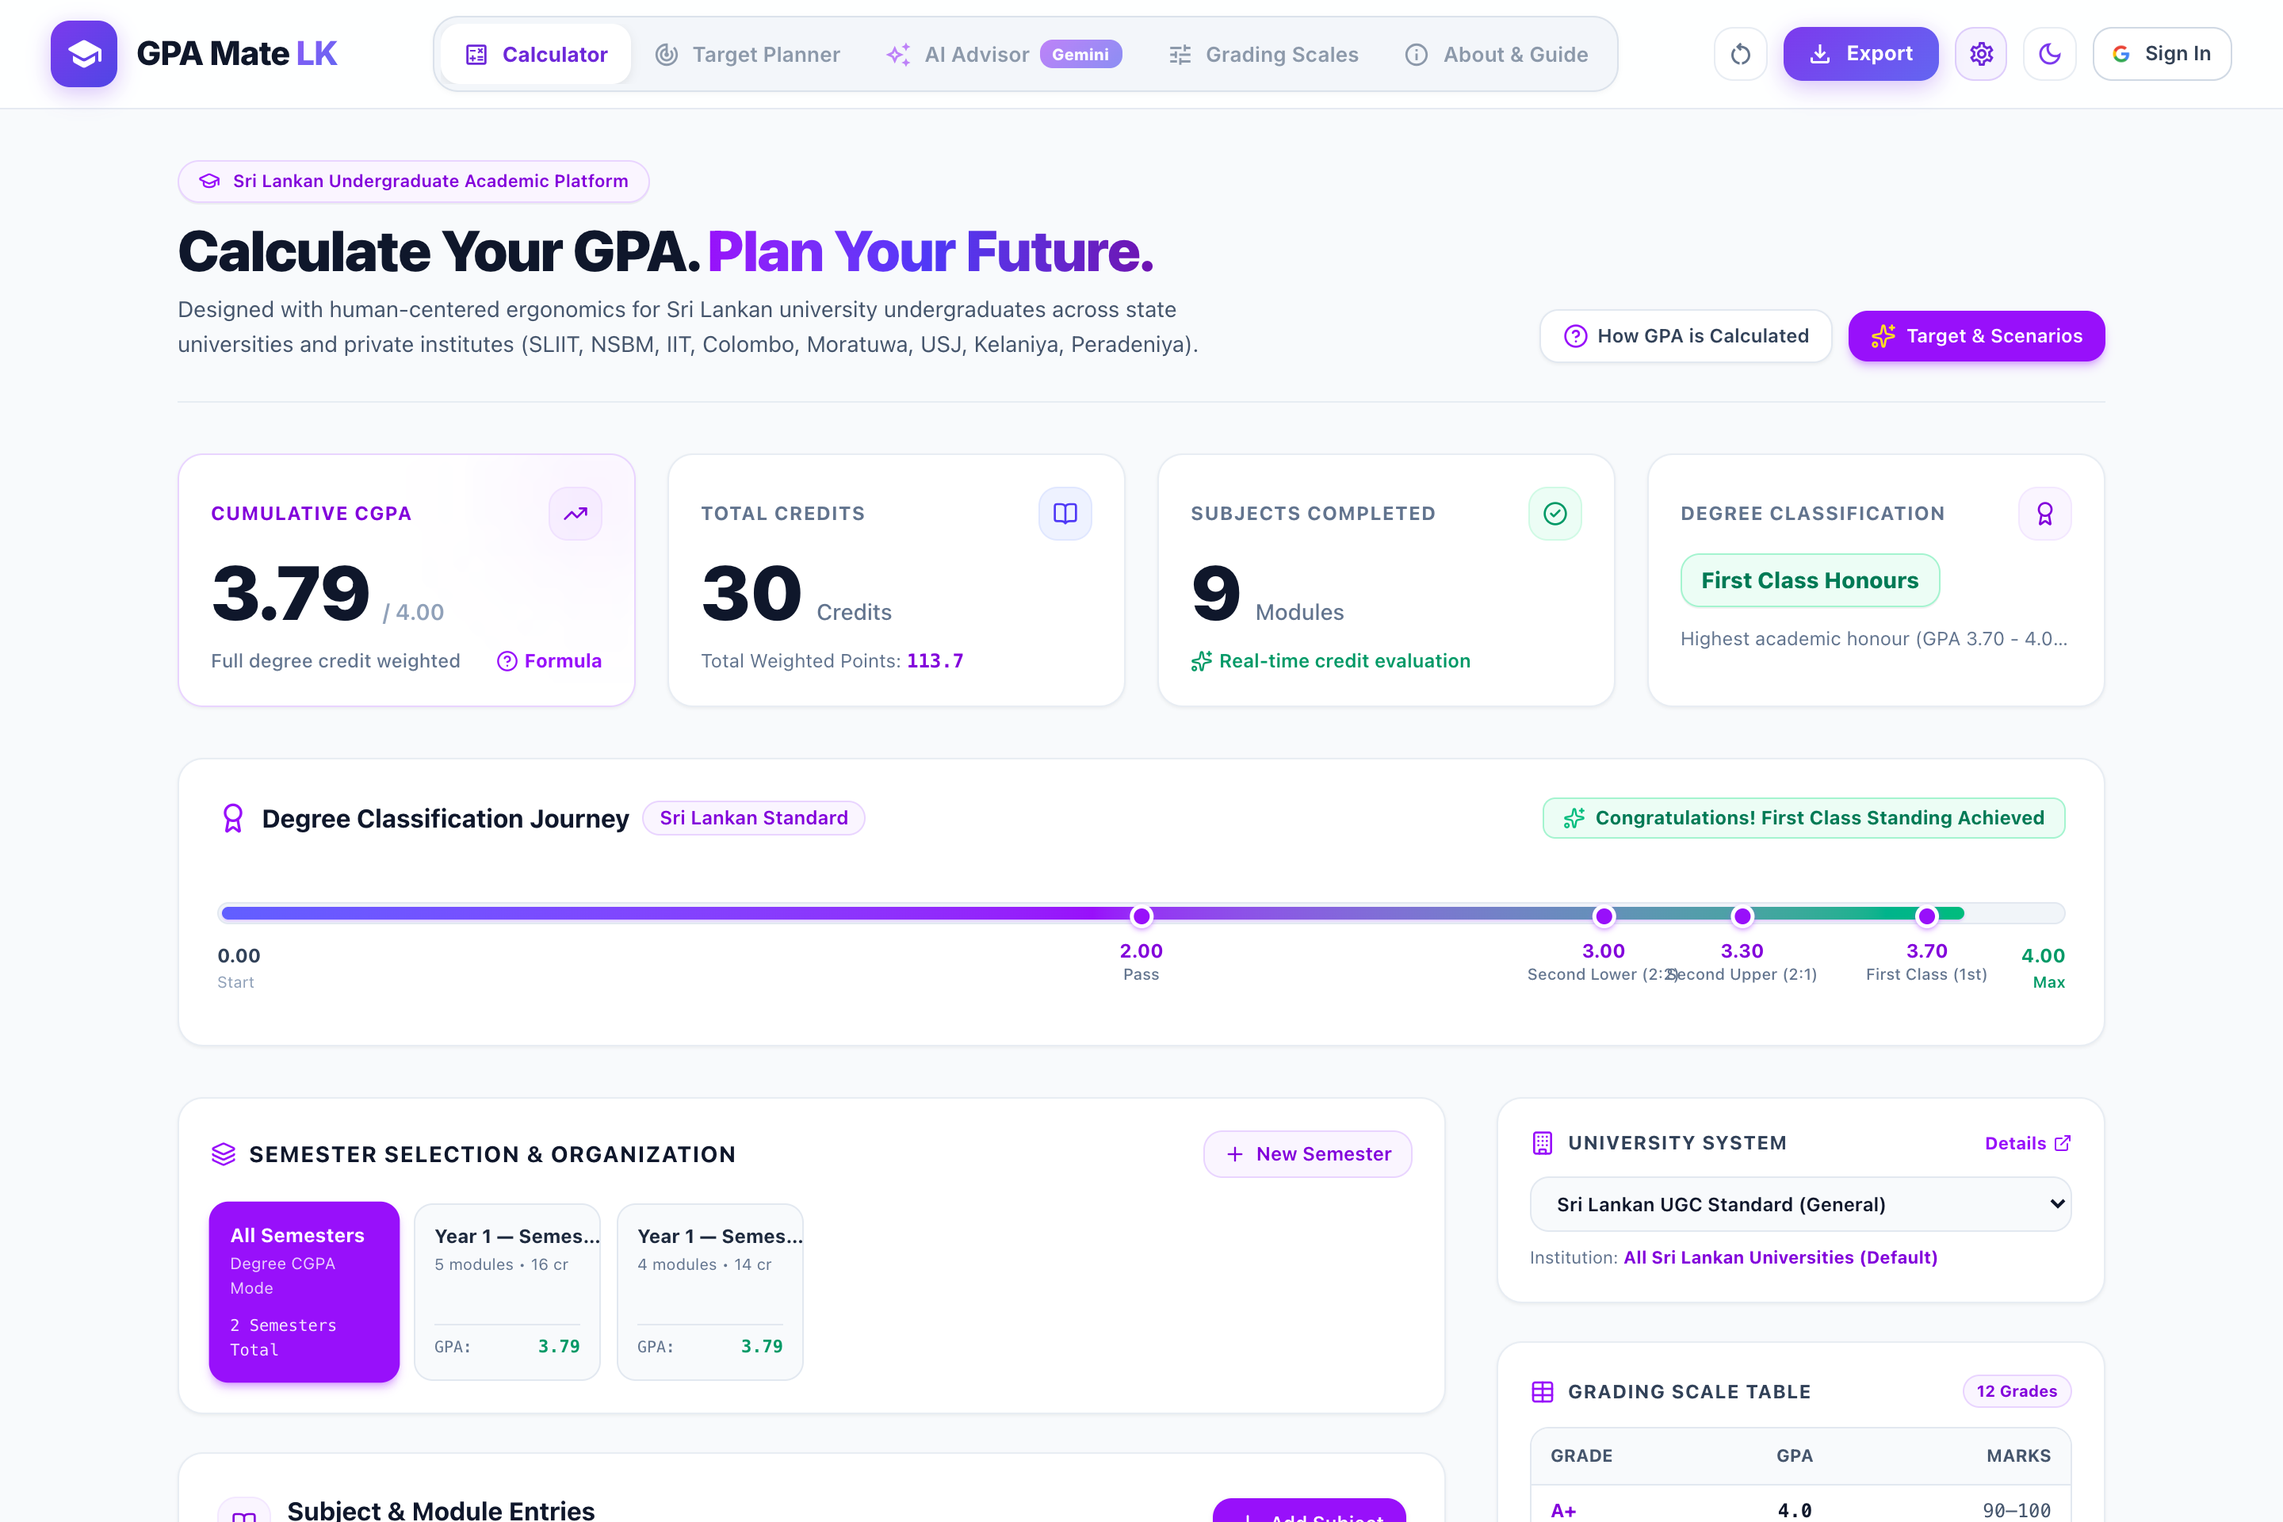
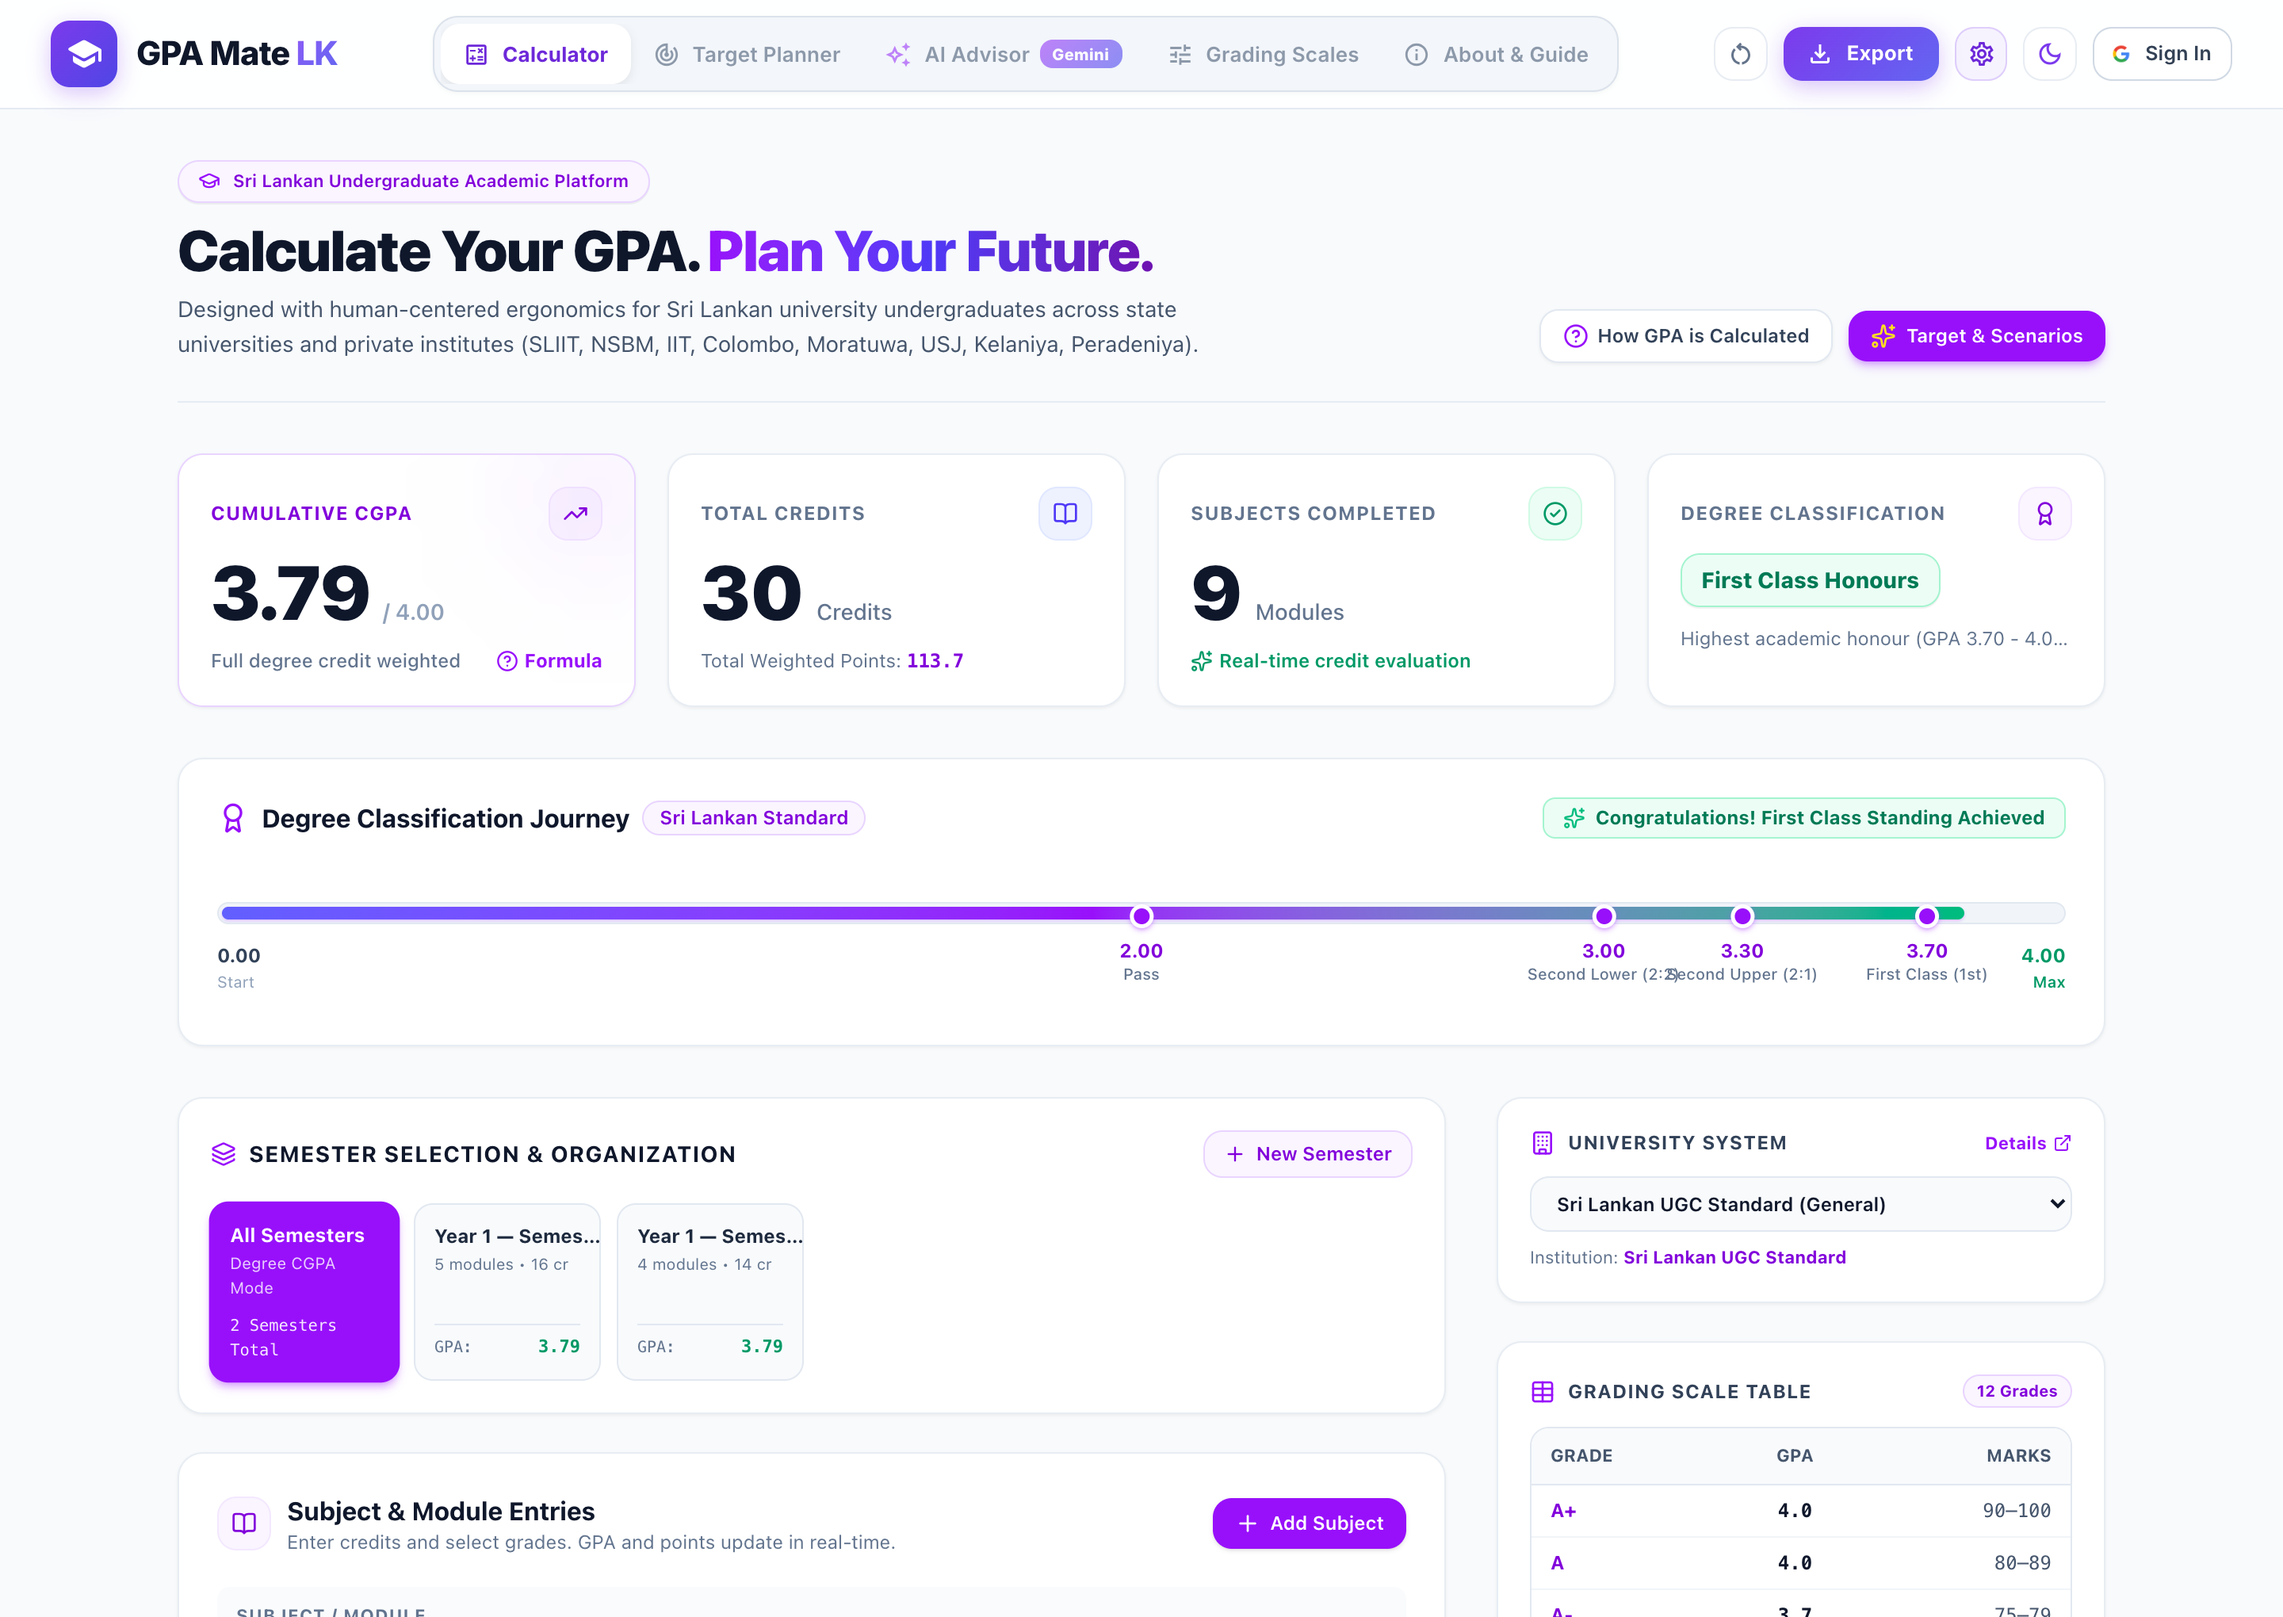
docs: update screenshots with cache-busting URLs, updated layout framing, and improved contrast

diff --git a/scripts/captureScreenshots.js b/scripts/captureScreenshots.js
@@ -14,7 +14,7 @@ async function capture() {
   });
 
   const page = await browser.newPage();
-  await page.setViewport({ width: 1440, height: 960, deviceScaleFactor: 2 });
+  await page.setViewport({ width: 1440, height: 1020, deviceScaleFactor: 2 });
 
   console.log('Navigating to http://localhost:5173...');
   await page.goto('http://localhost:5173', { waitUntil: 'networkidle2' });
@@ -55,6 +55,7 @@ async function capture() {
   // Reload with sample data in light mode
   await page.reload({ waitUntil: 'networkidle2' });
   await new Promise((r) => setTimeout(r, 1200));
+  await page.evaluate(() => window.scrollTo(0, 0));
 
   // 1. Dashboard Light Mode
   console.log('Capturing dashboard-light.png...');
@@ -66,6 +67,7 @@ async function capture() {
     const tabs = Array.from(document.querySelectorAll('button[role="tab"]'));
     const plannerTab = tabs.find((t) => t.textContent && (t.textContent.includes('Planner') || t.getAttribute('value') === 'planner'));
     if (plannerTab) plannerTab.click();
+    window.scrollTo(0, 0);
   });
   await new Promise((r) => setTimeout(r, 1000));
   await page.screenshot({ path: path.join(outDir, 'planner.png'), fullPage: false });
@@ -76,6 +78,7 @@ async function capture() {
     const tabs = Array.from(document.querySelectorAll('button[role="tab"]'));
     const aiTab = tabs.find((t) => t.textContent && (t.textContent.includes('Advisor') || t.getAttribute('value') === 'ai'));
     if (aiTab) aiTab.click();
+    window.scrollTo(0, 0);
   });
   await new Promise((r) => setTimeout(r, 1000));
   await page.screenshot({ path: path.join(outDir, 'ai-advisor.png'), fullPage: false });
@@ -86,6 +89,7 @@ async function capture() {
     const tabs = Array.from(document.querySelectorAll('button[role="tab"]'));
     const gradingTab = tabs.find((t) => t.textContent && (t.textContent.includes('Grading') || t.getAttribute('value') === 'grading'));
     if (gradingTab) gradingTab.click();
+    window.scrollTo(0, 0);
   });
   await new Promise((r) => setTimeout(r, 1000));
   await page.screenshot({ path: path.join(outDir, 'grading-scales.png'), fullPage: false });
@@ -107,7 +111,10 @@ async function capture() {
     const allButtons = Array.from(document.querySelectorAll('button'));
     const themeBtn = allButtons.find((b) => b.getAttribute('title')?.includes('Mode') || b.querySelector('svg[data-testid*="Mode"]'));
     if (themeBtn) themeBtn.click();
+    window.scrollTo(0, 0);
   });
+  await new Promise((r) => setTimeout(r, 1000));
+  await page.screenshot({ path: path.join(outDir, 'dashboard-dark.png'), fullPage: false });
   await new Promise((r) => setTimeout(r, 1000));
   await page.screenshot({ path: path.join(outDir, 'dashboard-dark.png'), fullPage: false });
 

diff --git a/src/App.tsx b/src/App.tsx
@@ -485,10 +485,10 @@ export const App: React.FC = () => {
             <div className="max-w-4xl mx-auto space-y-6 animate-fadeIn">
               <div className="flex items-center justify-between">
                 <div>
-                  <h2 className="text-xl font-bold text-white light:text-slate-900">
+                  <h2 className="text-xl font-bold text-slate-900 dark:text-white">
                     Sri Lankan University Grading Scales & Classification Presets
                   </h2>
-                  <p className="text-xs text-purple-300/80 light:text-slate-600">
+                  <p className="text-xs text-slate-600 dark:text-purple-300/80">
                     Switch universities or customize honour thresholds
                   </p>
                 </div>

diff --git a/src/lib/defaultConfig.ts b/src/lib/defaultConfig.ts
@@ -19,7 +19,7 @@ export const AVAILABLE_GRADING_SCALES: GradingScale[] = [
   {
     id: 'ugc-standard',
     name: 'Sri Lankan UGC Standard (General)',
-    university: 'All Sri Lankan Universities (Default)',
+    university: 'Sri Lankan UGC Standard',
     isDefault: true,
     grades: DEFAULT_UGC_GRADES,
   },

diff --git a/src/contexts/AuthContext.tsx b/src/contexts/AuthContext.tsx
@@ -22,8 +22,8 @@ interface AuthContextType {
 const AuthContext = createContext<AuthContextType>({
   currentUser: null,
   loading: false,
-  loginWithGoogle: async () => {},
-  logout: async () => {},
+  loginWithGoogle: async () => { },
+  logout: async () => { },
   isConfigured: false,
 });
 

diff --git a/README.md b/README.md
@@ -21,27 +21,27 @@ A modern, production-grade **GPA + CGPA + Degree Class Prediction + Academic Pla
 ### 1. Dashboard & Cumulative GPA Calculator (Clean Light Mode)
 *Ergonomic, distraction-free interface featuring a Material UI v6 App Bar, real-time degree classification progress bar, credit summary metrics, multi-semester management, and live credit-weighted grade-point calculations.*
 
-![GPA Mate LK Dashboard Light Mode](docs/screenshots/dashboard-light.png)
+![GPA Mate LK Dashboard Light Mode](docs/screenshots/dashboard-light.png?raw=true&v=2)
 
 ### 2. Academic Target & "What-If" Scenario Sandbox
 *Determine the exact required future GPA to reach target degree classes (First Class, 2:1, 2:2) alongside interactive future module simulations with customizable credit weighting.*
 
-![Target and Scenario Planner](docs/screenshots/planner.png)
+![Target and Scenario Planner](docs/screenshots/planner.png?raw=true&v=2)
 
 ### 3. Google Gemini AI Academic Advisor (Grounded with Ground Truth)
 *Intelligent conversational assistant powered by Google Gemini, personally greeting students by their Google account profile, automatically calculating remaining credit feasibility, and enforcing zero mathematical hallucinations.*
 
-![Google Gemini AI Academic Advisor](docs/screenshots/ai-advisor.png)
+![Google Gemini AI Academic Advisor](docs/screenshots/ai-advisor.png?raw=true&v=2)
 
 ### 4. University Grading Scale Presets & Custom Classification Cutoffs
 *Pre-configured grading systems for Sri Lankan UGC standard and top state/private universities (SLIIT, NSBM, IIT, Colombo, Moratuwa, USJ, Kelaniya, Peradeniya).*
 
-![University Grading Scales](docs/screenshots/grading-scales.png)
+![University Grading Scales](docs/screenshots/grading-scales.png?raw=true&v=2)
 
 ### 5. High-Contrast Dark Mode
 *Engineered for night study sessions, featuring deep contrast palettes, fluid card elevation, and seamless theme synchronization.*
 
-![GPA Mate LK Dashboard Dark Mode](docs/screenshots/dashboard-dark.png)
+![GPA Mate LK Dashboard Dark Mode](docs/screenshots/dashboard-dark.png?raw=true&v=2)
 
 ---
 
